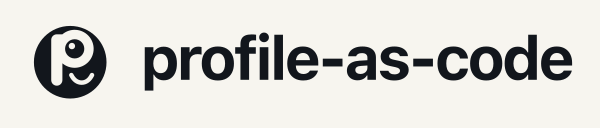
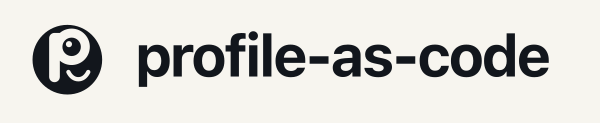
fix(brand): close the fourth premerge pass — nits only
- NOTICE: the reserved list now names the wordmark and the identity sheet
- site meta/OG/Twitter and the README badge say "MIT-licensed code", not
  a bare MIT that the marks do not carry
- lockup.svg: 196-unit canvas so a wider fallback (DejaVu) cannot clip
  the wordmark at the right edge; PNG re-rendered at 600 × 123
- BRAND.md: "propagate the same path" (the tile paints the pupil, it
  does not mask it) and the palette gains Surface/Line/Muted + the dark
  accent, so "outside the palette" has a full reference
- declared, not coded: the five geometry copies have no gate (mark.svg
  is the documented source) and the README plate is paper in dark mode

Session-Id: bf1d8c7d-d21a-494b-96bf-bcd3c0cf049b
Session-Name: brand-mark
Models: deepseek-flash
Impact: none

Changed region(s): [[0.21, 0.2439, 0.96, 0.7317], [0.03, 0.1951, 0.18, 0.7805]]

diff --git a/site/index.html b/site/index.html
@@ -4,16 +4,16 @@
   <meta charset="utf-8">
   <meta name="viewport" content="width=device-width, initial-scale=1">
   <title>profile-as-code — your professional identity, as code</title>
-  <meta name="description" content="A versioned source of truth for your professional identity. One YAML workspace, platform-specific texts for GitHub, LinkedIn, Upwork, X, and more. CLI-first, open source, MIT.">
+  <meta name="description" content="A versioned source of truth for your professional identity. One YAML workspace, platform-specific texts for GitHub, LinkedIn, Upwork, X, and more. CLI-first, open source, MIT-licensed code.">
   <meta name="color-scheme" content="light dark">
   <link rel="canonical" href="https://christianluciani.github.io/profile-as-code/">
   <meta property="og:type" content="website">
   <meta property="og:title" content="profile-as-code — your professional identity, as code">
-  <meta property="og:description" content="One YAML workspace, platform-specific texts for GitHub, LinkedIn, Upwork, X, and more. CLI-first, open source, MIT.">
+  <meta property="og:description" content="One YAML workspace, platform-specific texts for GitHub, LinkedIn, Upwork, X, and more. CLI-first, open source, MIT-licensed code.">
   <meta property="og:url" content="https://christianluciani.github.io/profile-as-code/">
   <meta name="twitter:card" content="summary">
   <meta name="twitter:title" content="profile-as-code — your professional identity, as code">
-  <meta name="twitter:description" content="One YAML workspace, platform-specific texts. CLI-first, open source, MIT.">
+  <meta name="twitter:description" content="One YAML workspace, platform-specific texts. CLI-first, open source, MIT-licensed code.">
   <link rel="icon" href="brand/mark-tile.svg" type="image/svg+xml">
   <link rel="stylesheet" href="styles.css">
 </head>

diff --git a/site/brand/BRAND.md b/site/brand/BRAND.md
@@ -94,10 +94,13 @@ already in the link.
 | Paper | `#F7F5EF` | ground |
 | Ink | `#12161C` | the mark, the wordmark, body |
 | Signal | `#1F4FFF` | the tile, one action per screen |
+| Surface | `#FFFDF8` | cards, the lockup specimen |
+| Line | `#E1DDD2` | rules and borders |
+| Muted | `#58606D` | labels and secondary text |
 
 The rule: **the mark is ink on paper and paper on ink; Signal never enters the mark.**
-The accent belongs to the tile and to actions. Dark mode reuses the page tokens; the
-mark follows `currentColor`.
+The accent belongs to the tile and to actions. Dark mode reuses the page tokens — the
+accent becomes `#8AB0FF` — and the mark follows `currentColor`.
 
 ## 9. Type
 
@@ -156,7 +159,8 @@ rsvg-convert -w 1120 site/brand/identity.svg -o site/brand/identity.png
 
 The geometry is repeated by necessity in the tile, the lockup, the inline mark and the
 identity sheet — each asset is standalone. `mark.svg` is the source: change it first,
-then propagate the same path and the same mask to the other surfaces.
+then propagate the same path to the other surfaces; the tile paints the pupil instead of
+masking it.
 
 ## 13. Licensing
 

diff --git a/README.md b/README.md
@@ -11,7 +11,7 @@ conocimiento SOTA de cada red.
 > CLI-first · TypeScript · Sin infraestructura · Tus datos siempre tuyos.
 
 ![CI](https://github.com/ChristianLuciani/profile-as-code/actions/workflows/ci.yml/badge.svg)
-![License: MIT](https://img.shields.io/badge/license-MIT-green.svg)
+![License: MIT for the code](https://img.shields.io/badge/license-MIT%20code-green.svg)
 [![Discussions](https://img.shields.io/badge/discussions-comunidad-blue.svg)](https://github.com/ChristianLuciani/profile-as-code/discussions)
 
 **Project page:** [christianluciani.github.io/profile-as-code](https://christianluciani.github.io/profile-as-code/) —
